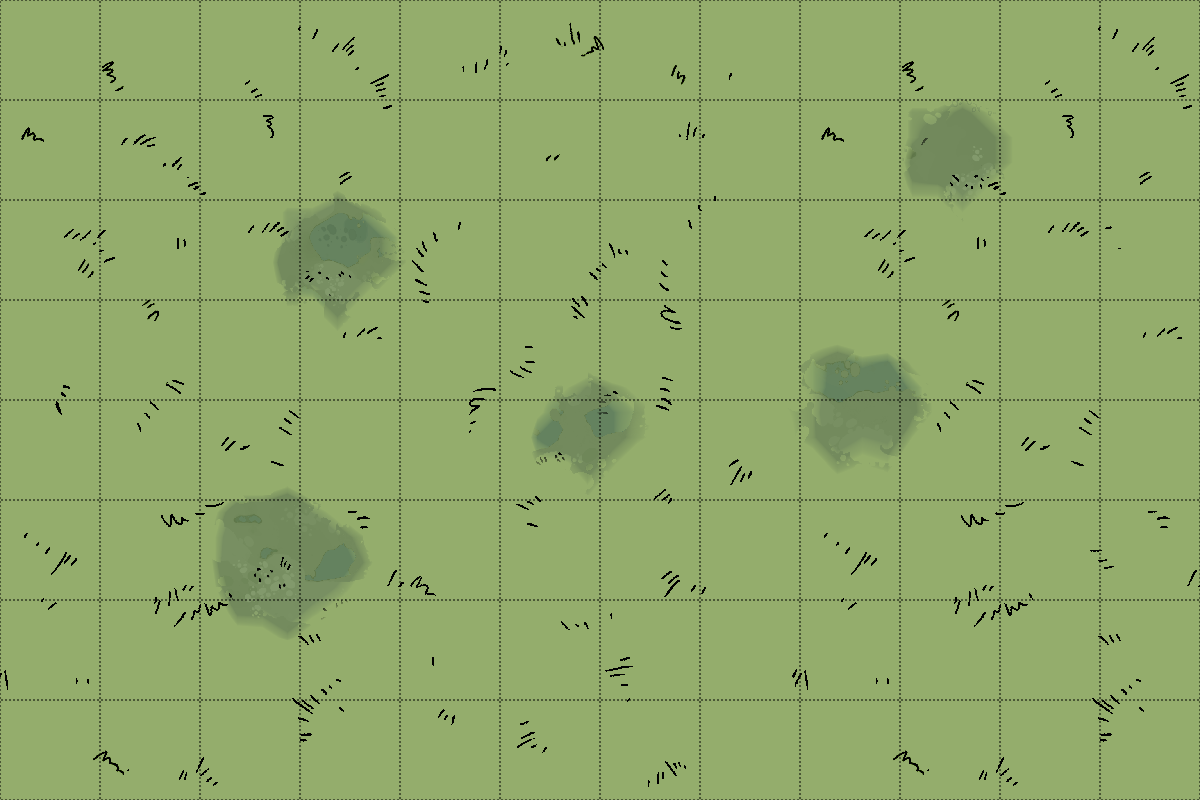
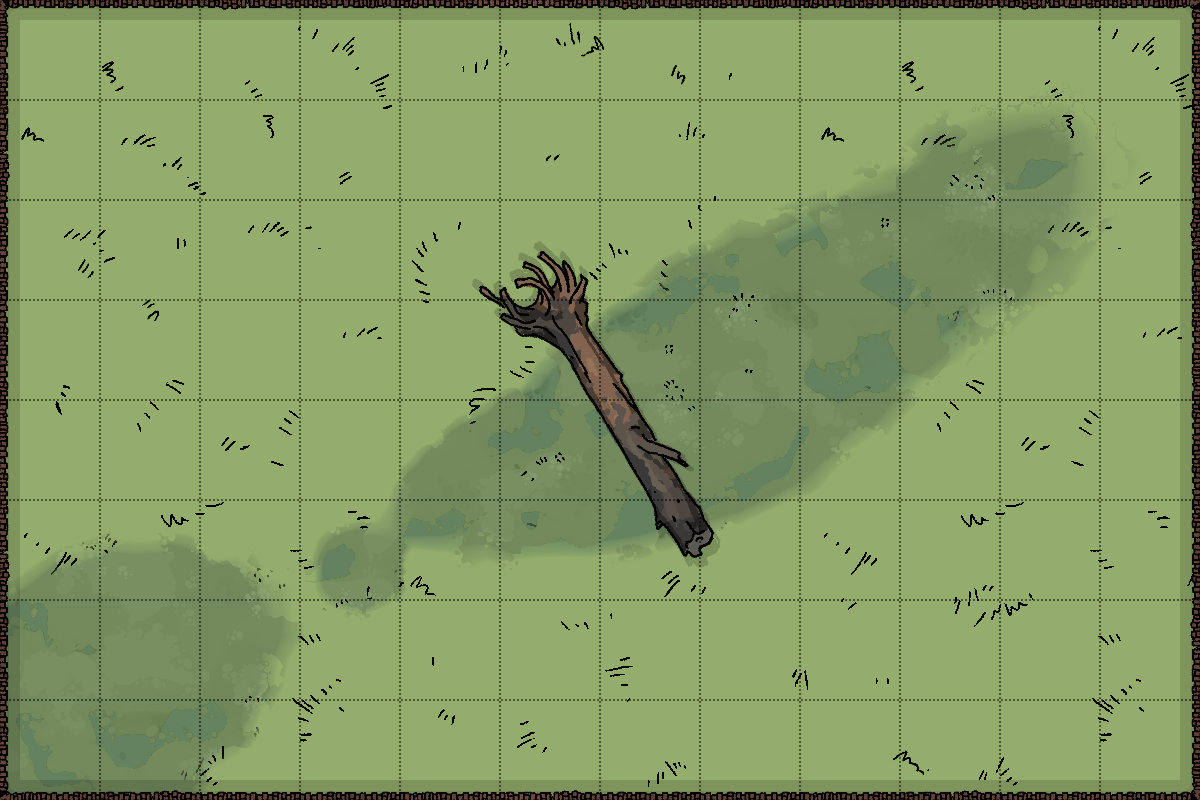
added random backgrounds, player X won and stopped units from leaving the play area

diff --git a/js/controls.js b/js/controls.js
@@ -31,6 +31,10 @@ class Controls {
                         if (this.blueArmy[i].stamina < 5) {
                             break;
                         }
+                        if ((this.blueArmy[i].x + 100) > 1100) {
+                            console.log(`Can't move outside the battlefield`)
+                            break;
+                        }
                         let futurePosition = ((this.blueArmy[i].x + 100) / 100).toString() + (this.blueArmy[i].y / 100).toString();
                         let friendlyFire;
                         this.blueArmy.forEach((bluesoldier) => {
@@ -71,6 +75,10 @@ class Controls {
                 for (let i = 0; i < this.blueArmy.length; i++){
                     if (this.blueArmy[i].isSelected) {
                         if (this.blueArmy[i].stamina < 5) {
+                            break;
+                        }
+                        if ((this.blueArmy[i].x - 100) < 0) {
+                            console.log(`Can't move outside the battlefield`)
                             break;
                         }
                         let futurePosition = ((this.blueArmy[i].x - 100) / 100).toString() + (this.blueArmy[i].y / 100).toString();
@@ -114,6 +122,10 @@ class Controls {
                         if (this.blueArmy[i].stamina < 5) {
                             break;
                         }
+                        if ((this.blueArmy[i].y - 100) < 0) {
+                            console.log(`Can't move outside the battlefield`)
+                            break;
+                        }
                         let futurePosition = (this.blueArmy[i].x / 100).toString() + ((this.blueArmy[i].y - 100) / 100).toString();
                         let friendlyFire;
                         this.blueArmy.forEach((bluesoldier) => {
@@ -152,6 +164,10 @@ class Controls {
                 for (let i = 0; i < this.blueArmy.length; i++){
                     if (this.blueArmy[i].isSelected) {
                         if (this.blueArmy[i].stamina < 5) {
+                            break;
+                        }
+                        if ((this.blueArmy[i].y + 100) > 700) {
+                            console.log(`Can't move outside the battlefield`)
                             break;
                         }
                         let futurePosition = (this.blueArmy[i].x / 100).toString() + ((this.blueArmy[i].y + 100) / 100).toString();
@@ -208,6 +224,10 @@ class Controls {
                         if (this.redArmy[i].stamina < 5) {
                             break;
                         }
+                        if ((this.redArmy[i].x + 100) > 1100) {
+                            console.log(`Can't move outside the battlefield`)
+                            break;
+                        }
                         let futurePosition = ((this.redArmy[i].x + 100) / 100).toString() + (this.redArmy[i].y / 100).toString();
                         let friendlyFire;
                         this.redArmy.forEach((redsoldier) => {
@@ -251,6 +271,10 @@ class Controls {
                         if (this.redArmy[i].stamina < 5) {
                             break;
                         }
+                        if ((this.redArmy[i].x - 100) < 0) {
+                            console.log(`Can't move outside the battlefield`)
+                            break;
+                        }
                         let futurePosition = ((this.redArmy[i].x - 100) / 100).toString() + (this.redArmy[i].y / 100).toString();
                         let friendlyFire;
                         this.redArmy.forEach((redsoldier) => {
@@ -292,6 +316,10 @@ class Controls {
                         if (this.redArmy[i].stamina < 5) {
                             break;
                         }
+                        if ((this.redArmy[i].y - 100) < 0) {
+                            console.log(`Can't move outside the battlefield`)
+                            break;
+                        }
                         let futurePosition = (this.redArmy[i].x / 100).toString() + ((this.redArmy[i].y - 100) / 100).toString();
                         let friendlyFire;
                         this.redArmy.forEach((redsoldier) => {
@@ -330,6 +358,10 @@ class Controls {
                 for (let i = 0; i < this.redArmy.length; i++){
                     if (this.redArmy[i].isSelected) {
                         if (this.redArmy[i].stamina < 5) {
+                            break;
+                        }
+                        if ((this.redArmy[i].y + 100) > 700) {
+                            console.log(`Can't move outside the battlefield`)
                             break;
                         }
                         let futurePosition = (this.redArmy[i].x / 100).toString() + ((this.redArmy[i].y + 100) / 100).toString();
@@ -425,23 +457,27 @@ class Controls {
         //removes units with less than 0.5 HP
         this.blueArmy.forEach((bluesoldier) => {
             let index;
-            if (bluesoldier.hp < 0.5) {
+            if (bluesoldier.hp < 1) {
                 console.log('Blue unit killed!');
                 index = this.blueArmy.indexOf(bluesoldier);
                 this.blueArmy.splice(index, 1);
-                let nextUnit = (index+1) % this.blueArmy.length;
-                this.blueArmy[nextUnit].isSelected = true;
+                if (this.blueArmy.length > 0) {
+                    let nextUnit = (index+1) % this.blueArmy.length;
+                    this.blueArmy[nextUnit].isSelected = true;
+                }
             }
         });
 
         this.redArmy.forEach((redsoldier) => {
             let index;
-            if (redsoldier.hp < 0.5) {
+            if (redsoldier.hp < 1) {
                 console.log('Red unit killed!');
                 index = this.redArmy.indexOf(redsoldier);
                 this.redArmy.splice(index, 1);
-                let nextUnit = (index+1) % this.redArmy.length;
-                this.redArmy[nextUnit].isSelected = true;
+                if (this.redArmy.length > 0) {
+                    let nextUnit = (index+1) % this.redArmy.length;
+                    this.redArmy[nextUnit].isSelected = true;
+                } 
             }
         });  
 

diff --git a/js/game.js b/js/game.js
@@ -165,8 +165,18 @@ class Game {
 
 
     drawBackground() {
-        this.background.src = './images/background.png'        
-        this.ctx.drawImage(this.background, this.x, this.y, this.canvasWidth, this.canvasHeight);
+        if (battlefield === 1) {
+            this.background.src = './images/background.png'
+            this.ctx.drawImage(this.background, this.x, this.y, this.canvasWidth, this.canvasHeight);
+        }
+        else if (battlefield === 2) {
+            this.background.src = './images/background2.png'
+            this.ctx.drawImage(this.background, this.x, this.y, this.canvasWidth, this.canvasHeight);
+        }
+        else if (battlefield === 3) {
+            this.background.src = './images/background3.png'
+            this.ctx.drawImage(this.background, this.x, this.y, this.canvasWidth, this.canvasHeight);
+        }
     }
 
     staminaCounter() {
@@ -252,9 +262,13 @@ class Game {
             }
         });
 
-        if (this.blueArmy.length + blueBases === 0 || this.redArmy.length + redBases === 0) {
+        if (this.blueArmy.length + blueBases === 0) {
+            console.log(`RED WINS THE GAME`);
             this.stop();
-            console.log("Game Over");
+        }
+        else if (this.redArmy.length + redBases === 0) {
+            console.log(`BLUE WINS THE GAME`);
+            this.stop();
         }
     }
     

diff --git a/index.html b/index.html
@@ -8,13 +8,16 @@
     <title>Medieval Rush</title>
 </head>
 <body>
-    <div id="game-board">
-        <canvas id="canvas" width="1200" height="800"></canvas>
-    </div>
 
     <div>
         <button id="start-button">Fight!</button>
     </div>
+
+    <div id="game-board">
+        <canvas id="canvas" width="1200" height="800"></canvas>
+    </div>
+
+
 
     <script type="text/javascript" src="js/bases.js"></script>
     <script type="text/javascript" src="js/controls.js"></script>

diff --git a/js/index.js b/js/index.js
@@ -1,4 +1,5 @@
 const btn = document.getElementById('start-button');
+const battlefield = Math.floor(Math.random() *3) + 1;
 
 window.onload = () => {
     document.getElementById('start-button').onclick = () => {
